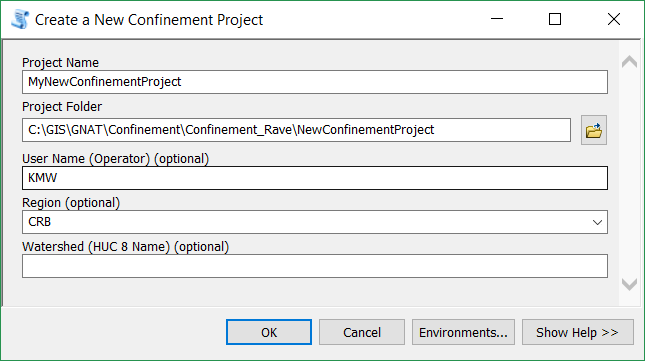
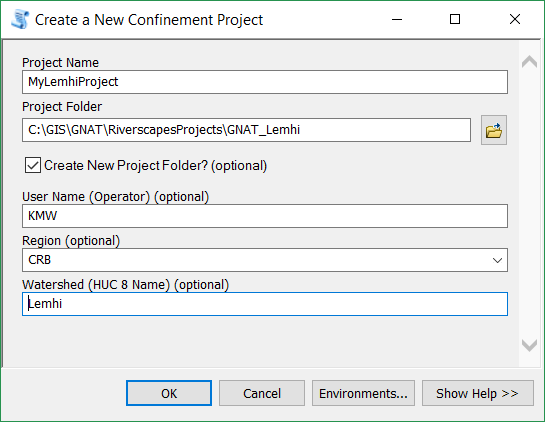
Release 2.2.01

Changed region(s): [[0.0, 0.0, 1.0, 1.0], [0.7174, 0.0305, 0.7486, 0.0609]]

diff --git a/Load-Input-Datasets.md b/Load-Input-Datasets.md
@@ -38,7 +38,22 @@ This polygon represents the margins of the valley bottom that provides a confini
 
 ![Add Inputs Tool](Images/AddInputsToProjectToolWindow.PNG)
 
-3. The Project.xml file will be updated to include these inputs, and they will be stored appropriately in the Project folder structure.
+3. The Project.xml file will be updated to include these inputs, and they will be stored appropriately in the Project folder structure:
+
+   * **Inputs** (all inputs are stored in here)
+     * **ChannelPolygons** (all Active Channel Polygons are added here)
+       * **ChannelPolygon001** (Each Active Channel Polygon gets a sequentially numbered folder, as it is added to the project)
+         * *Your_Channel_Polygon.shp*
+     * **StreamNetworks** (all Stream Networks are added here)
+       - **StreamNetwork001** (Each Stream Network gets a sequentially numbered folder, as it is added to the project)
+         - *Your_Stream_Network.shp*
+     * **ValleyBottoms** (all Valley Bottom Polygons are added here)
+       - **ValleyBottom001** (Each Valley Bottom Polygon gets a sequentially numbered folder, as it is added to the project)
+         - *Your_Valley_Bottom.shp*
+
+   The following is an example of a project with two channel polygons, two stream networks, and one valley bottom added to it:
+
+   ![](Images/Folder-ProjectInputs.png)
 
 > **At this point in the project, do not move or rename any files within the project folder. Doing so could cause the project to become corrupt. **
 >

diff --git a/Home.md b/Home.md
@@ -1,16 +1,26 @@
 The Confinement Toolbox contains the Confinement Tool and Moving Window Tool for calculating confinement along a stream network. This tool is written in Python (2.7) for use in ArcGIS version 10.1.
 
+## News
+
+***2017-APR-28*** 
+
+Version 2.2 Released! This version produces Riverscapes projects via [Riverscapes Project Python module](https://github.com/SouthForkResearch/PythonRiverscapesProject), adds outputs to the map (with a basic symbology applied), improved speed by removing old processes, plus other bugs fixed.  
+
+Version 2.3 is already in the planning stages (see issues marked with Milestone 2.3), and will include features such as Riverscapes project linking, Generic Confinement analysis types,  and more!
+
 ## Download
 
-**[Version 2.1.02](Downloads/ConfinementTool_2.1.02.zip)** released on 2017-MAR-03 
+**[Version 2.2.01](Downloads/ConfinementTool_2.2.01.zip)** released on 2017-APR-28 
 
-	+ Roll out of "Confinement Project"
-	+ Calculate Constriction Metric
-	+ Reconfigured Toolbox Structure to support projects and stand alone calculations
+```markdown
+* Updated Riverscapes Project (integrated with Riverscapes Project Python module)
+* Added Symbology and map layers to Confining Margins
+* Updated folder structure
+```
 
 [Previous Versions and Release Notes](Releases)
 
-## Installation
+### Installation
 
 The Confinement Toolbox is provided as a zip file containing a .pyt file and supporting script files. 
 

diff --git a/Create-a-Project.md b/Create-a-Project.md
@@ -23,7 +23,9 @@ You can always load new inputs to the confinement project, however, you cannot (
 2. Open ArcMap and navigate to Confinement Toolbox / Confinement Project Management / Create a New Confinement Project in ArcToolbox.
   1. Specify the **Name** of the New Project.
 
-  2. Specify the **location of the Folder** you created in step 1 .
+  2. Specify the **location of the Folder** to store your project
+
+     > If you check the *Create New Project Folder* box, A new folder with the project name will be created in the location you specify.  The new project will be stored there. 
 
   3. Specify the **User** name creating the Project
 
@@ -36,6 +38,11 @@ You can always load new inputs to the confinement project, however, you cannot (
   6. Click OK to generate the new project XML file.
 
 ![Tool Window](Images/NewConfinementProjectToolWindow.PNG "Confinement Project")
+
+7. The tool should produce the following outupts using the above parameters:
+
+   ![](Images/Folder-NewProject.png)
+
 
 
 You will now add data to the project in [Step 2](Load-Input-Datasets).

diff --git a/Downloads/Releases.md b/Downloads/Releases.md
@@ -2,7 +2,13 @@
 
 ## Version 2.2
 
+**[Version 2.2.01](Downloads/ConfinementTool_2.2.01.zip)** released on 2017-APR-28 
 
+```markdown
+* Updated Riverscapes Project (integrated with Riverscapes Project Python module)
+* Added Symbology and map layers to Confining Margins
+* Updated folder structure
+```
 
 ## Version 2.1 
 
@@ -29,8 +35,20 @@
 
 # Installation #
 
+## Zipfile
+
 The Confinement Toolbox is provided as a zip file containing a .pyt file and supporting script files. 
 
-1. Unzip the contents to your computer (keep all files together).
+1. Download the zipfile and unzip the contents to your computer (keep all files together).
 2. Open ArcGIS.
 3. Add the .pyt file to Arctoolbox as you would any other Geoprocessing Toolbox.
+
+## GIT Repo
+
+1. Clone the Master Branch of this repo to your local computer.
+
+2. Open ArcGIS.
+
+3. Add the .pyt file to Arctoolbox as you would any other Geoprocessing Toolbox.
+
+   > Both Feature (x.x) and Maintenance/Bug fix releases (x.x.xx) will be pushed to this branch.

diff --git a/Generate-Confining-Margins.md b/Generate-Confining-Margins.md
@@ -34,6 +34,15 @@ With the inputs loaded into the project, the next step is to generate the Raw Co
 
 ![Realization Window](Images/ConfiementRealizationToolWindow.PNG)
 
+9. The Project will store the outputs in the following structure:
+
+   * **ProjectFolder**
+     * **Outputs** (All output "Realizations" will be saved here)
+       * **Confinement_001** (A folder with the sequential number of your realization)
+         * *ConfiningMargins.shp*
+         * *RawConfiningState.shp*
+
+
 Proceed to [Calculate Confinement by Segments](Calculating-Confinement) or [Moving Window Analysis](MovingWindowTool)
 
 ------

diff --git a/Calculating-Confinement.md b/Calculating-Confinement.md
@@ -26,6 +26,13 @@ Confinement by Segments results are stored as a "confinement analysis" and are a
 
 ![](Images/AnalysisConfinementSegments.png)
 
+9. The Project will store the outputs of the anaysis in the following structure:
+   - **ProjectFolder**
+     - **Outputs** (All output "Realizations" will be saved here)
+       - **Confinement_001** (The folder that contains the realizaition you selected to generate the analysis with)
+         - **ConfinementSegments_001** (the sequential number of your analysis)
+           - *ConfinementSegments.shp*
+
 ------
 
 ## Non-Project Mode

diff --git a/News.md b/News.md
@@ -1,0 +1,1 @@
+[News Archive](News)
